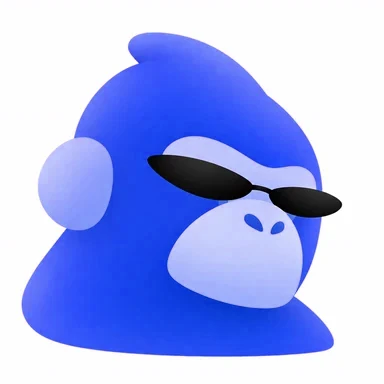
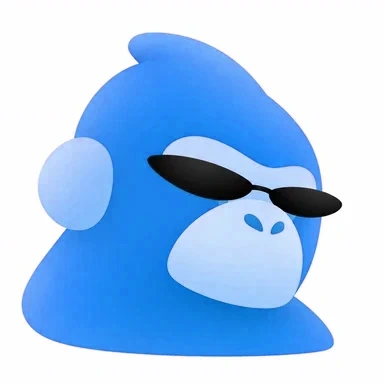
Иконка РОБОРАБ: фирменный синий #0A84FF вместо сине-фиолетового
Claude-Session: https://claude.ai/code/session_016PffSYv3aLKFEz8u7cQ8TG

diff --git a/dist/index.html b/dist/index.html
@@ -24,7 +24,7 @@
 <link rel="canonical" href="https://www.roborab.com/">
 <link rel="icon" type="image/png" sizes="96x96" href="/favicon.png">
 <link rel="apple-touch-icon" sizes="180x180" href="/apple-touch-icon.png">
-<link rel="stylesheet" href="/assets/site.css?v=3f15c3c2">
+<link rel="stylesheet" href="/assets/site.css?v=5facbef2">
 <script type="application/ld+json">{"@context": "https://schema.org", "@graph": [{"@type": "Organization", "@id": "https://www.roborab.com/#organization", "name": "РОБОРАБ", "alternateName": ["RoboRab", "РОБОРАБ AI"], "disambiguatingDescription": "Компания РОБОРАБ (RoboRab, roborab.com): консалтинг и внедрение ИИ для бизнеса и профессий, готовые решения и разработка под задачу.", "knowsAbout": ["внедрение искусственного интеллекта", "ИИ-агенты", "мультиагентные системы", "CRM", "интеграция с 1С", "SEO и GEO", "веб-разработка"], "url": "https://www.roborab.com/", "logo": "https://www.roborab.com/assets/appicon.webp", "description": "РОБОРАБ (RoboRab, roborab.com) занимается консалтингом и внедрением искусственного интеллекта для бизнеса и профессий. Сначала разбираем, где у вас теряются время и деньги, и честно говорим, поможет ли система. Если поможет, настраиваем готовое решение из каталога или разрабатываем инструмент с нуля: от удобной CRM до экосистемы с сайтом, интернет-магазином, веб-приложением и мультиагентной системой. В каталоге: Фитнес-CRM, Букинг-CRM, Строй-учёт, Налоговый агент для группы компаний, SEO и GEO, веб-разработка. Подключаем таблицы, базы данных, 1С, «Мой склад» и другие CRM-системы. Диагностика в чате бесплатна.", "contactPoint": {"@type": "ContactPoint", "url": "https://roborabaichat.vercel.app/?lang=ru", "contactType": "Консультация по внедрению", "availableLanguage": "ru"}}, {"@type": "WebSite", "@id": "https://www.roborab.com/#website", "name": "РОБОРАБ", "alternateName": "RoboRab", "url": "https://www.roborab.com/", "inLanguage": "ru", "publisher": {"@id": "https://www.roborab.com/#organization"}}, {"@type": ["WebPage", "FAQPage"], "@id": "https://www.roborab.com/#page", "url": "https://www.roborab.com/", "name": "РОБОРАБ (RoboRab): консалтинг и внедрение ИИ для бизнеса и профессий", "description": "РОБОРАБ (RoboRab): консалтинг и внедрение ИИ для бизнеса и профессий. Готовые решения: Фитнес-CRM, Букинг-CRM, Строй-учёт, Налоговый агент, SEO и GEO, веб-разработка. Бесплатная диагностика в чате.", "inLanguage": "ru", "isPartOf": {"@id": "https://www.roborab.com/#website"}, "about": [{"@id": "https://www.roborab.com/#organization"}, {"@id": "https://www.roborab.com/#service"}], "mainEntity": [{"@type": "Question", "name": "Что такое РОБОРАБ (RoboRab)?", "acceptedAnswer": {"@type": "Answer", "text": "РОБОРАБ (RoboRab, roborab.com) занимается консалтингом и внедрением искусственного интеллекта для бизнеса и профессий. Сначала разбираем, где у вас теряются время и деньги, и честно говорим, поможет ли система. Если поможет, настраиваем готовое решение из каталога или разрабатываем инструмент с нуля: от удобной CRM до экосистемы с сайтом, интернет-магазином, веб-приложением и мультиагентной системой. В каталоге: Фитнес-CRM, Букинг-CRM, Строй-учёт, Налоговый агент для группы компаний, SEO и GEO, веб-разработка. Подключаем таблицы, базы данных, 1С, «Мой склад» и другие CRM-системы. Диагностика в чате бесплатна."}}, {"@type": "Question", "name": "Как внедрить искусственный интеллект в бизнес-процессы?", "acceptedAnswer": {"@type": "Answer", "text": "Опишите задачу в чате. Специалист изучит резюме разговора и предложит настроить готовый продукт или разработать решение под ваш процесс. Срок зависит от задачи и подключаемых систем."}}, {"@type": "Question", "name": "Сколько стоит внедрение ИИ?", "acceptedAnswer": {"@type": "Answer", "text": "Диагностика в чате бесплатна. Стоимость внедрения зависит от объёма работ и систем, которые нужно подключить."}}, {"@type": "Question", "name": "С какими системами вы работаете?", "acceptedAnswer": {"@type": "Answer", "text": "С таблицами, базами данных, 1С, «Мой склад» и другими CRM-системами. Для юристов собираем мультиагентные системы, которые следят за изменениями в законах и просматривают дела."}}, {"@type": "Question", "name": "Где будет работать решение: у вас или в вашем приложении?", "acceptedAnswer": {"@type": "Answer", "text": "Как удобнее вам: оставим инфраструктуру в нашем приложении РОБОРАБ, где агентами можно управлять через чат, или развернём решение на вашем сервере."}}, {"@type": "Question", "name": "Сколько занимает внедрение?", "acceptedAnswer": {"@type": "Answer", "text": "Срок зависит от задачи и нужных интеграций. Точный срок назовём после диагностики."}}, {"@type": "Question", "name": "Что я получу после диагностики?", "acceptedAnswer": {"@type": "Answer", "text": "Список мест, где вы теряете деньги и время, и предложение специалиста: готовый продукт или решение с нуля."}}, {"@type": "Question", "name": "А если ИИ мне не нужен?", "acceptedAnswer": {"@type": "Answer", "text": "Скажем об этом прямо. Диагностика бесплатна, вы ничем не рискуете."}}, {"@type": "Question", "name": "Какие готовые решения есть в каталоге?", "acceptedAnswer": {"@type": "Answer", "text": "В каталоге доступны Букинг-CRM для посуточной аренды, Строй-учёт, налоговый агент для группы компаний, Фитнес-CRM и настройка SEO и GEO."}}, {"@type": "Question", "name": "Какие задачи можно передать ИИ-агенту?", "acceptedAnswer": {"@type": "Answer", "text": "Например, собирать заявки, готовить сводки по данным и отвечать на типовые вопросы. На диагностике разбираем, какие операции можно автоматизировать и где нужна проверка сотрудником."}}, {"@type": "Question", "name": "С чего начать, если я не знаю, что мне нужно?", "acceptedAnswer": {"@type": "Answer", "text": "Начните с диагностики: расскажите ИИ-агенту в чате о своём бизнесе. Он поможет найти, где процессы буксуют. Специалист изучит резюме и предложит, что внедрять."}}, {"@type": "Question", "name": "Можно ли заказать то, чего нет в каталоге?", "acceptedAnswer": {"@type": "Answer", "text": "Да. Мы настроим готовый продукт под вас, объединим несколько продуктов (решение «Гибрид») или соберём решение полностью под вас. Делаем и сайты."}}]}, {"@type": "Service", "@id": "https://www.roborab.com/#service", "name": "Внедрение ИИ в бизнес-процессы и профессии", "serviceType": "Внедрение ИИ-агентов", "url": "https://www.roborab.com/", "description": "РОБОРАБ (RoboRab, roborab.com) занимается консалтингом и внедрением искусственного интеллекта для бизнеса и профессий. Сначала разбираем, где у вас теряются время и деньги, и честно говорим, поможет ли система. Если поможет, настраиваем готовое решение из каталога или разрабатываем инструмент с нуля: от удобной CRM до экосистемы с сайтом, интернет-магазином, веб-приложением и мультиагентной системой. В каталоге: Фитнес-CRM, Букинг-CRM, Строй-учёт, Налоговый агент для группы компаний, SEO и GEO, веб-разработка. Подключаем таблицы, базы данных, 1С, «Мой склад» и другие CRM-системы. Диагностика в чате бесплатна.", "provider": {"@id": "https://www.roborab.com/#organization"}, "hasOfferCatalog": {"@type": "OfferCatalog", "name": "Готовые решения РОБОРАБ", "itemListElement": [{"@type": "Offer", "itemOffered": {"@type": "Service", "@id": "https://www.roborab.com/solutions/booking-crm#service", "name": "CRM для бронирований и публикации объявлений", "alternateName": "Букинг-CRM", "url": "https://www.roborab.com/solutions/booking-crm", "description": "Букинг-CRM РОБОРАБ: синхронизация бронирований, единый календарь и публикация объявлений на Авито, Суточно.ру, Островке и Яндекс Путешествиях.", "provider": {"@id": "https://www.roborab.com/#organization"}, "image": ["https://www.roborab.com/assets/booking-home.webp", "https://www.roborab.com/assets/booking-calendar.webp", "https://www.roborab.com/assets/booking-new.webp"]}}, {"@type": "Offer", "itemOffered": {"@type": "Service", "@id": "https://www.roborab.com/solutions/stroi-uchet#service", "name": "Учёт для строительных компаний", "alternateName": "Строй-учёт", "url": "https://www.roborab.com/solutions/stroi-uchet", "description": "Строй-учёт РОБОРАБ: смета по фото или проекту, контроль этапов работ с фотоотчётами бригады и камеры на объектах в одной карточке.", "provider": {"@id": "https://www.roborab.com/#organization"}, "image": ["https://www.roborab.com/assets/stroy-home.webp", "https://www.roborab.com/assets/stroy-estimate.webp", "https://www.roborab.com/assets/stroy-objects.webp"]}}, {"@type": "Offer", "itemOffered": {"@type": "Service", "@id": "https://www.roborab.com/solutions/nalogovy-agent#service", "name": "Налоговый агент для группы компаний", "alternateName": "Налоговый агент", "url": "https://www.roborab.com/solutions/nalogovy-agent", "description": "Налоговый агент РОБОРАБ собирает данные из 1С, показывает сроки платежей и помогает сравнивать прогнозы налоговой нагрузки по юрлицам.", "provider": {"@id": "https://www.roborab.com/#organization"}, "image": ["https://www.roborab.com/assets/tax-overview.webp", "https://www.roborab.com/assets/tax-revenue.webp", "https://www.roborab.com/assets/tax-forecast.webp"]}}, {"@type": "Offer", "itemOffered": {"@type": "Service", "@id": "https://www.roborab.com/solutions/fitness-crm#service", "name": "CRM для фитнес-клубов", "alternateName": "Фитнес-CRM", "url": "https://www.roborab.com/solutions/fitness-crm", "description": "Фитнес-CRM РОБОРАБ для учёта клиентов, абонементов, расписания и выплат тренерам.", "provider": {"@id": "https://www.roborab.com/#organization"}, "image": ["https://www.roborab.com/assets/fitness-dashboard.webp", "https://www.roborab.com/assets/fitness-schedule.webp", "https://www.roborab.com/assets/fitness-client.webp"]}}, {"@type": "Offer", "itemOffered": {"@type": "Service", "@id": "https://www.roborab.com/solutions/seo-geo#service", "name": "SEO / GEO", "alternateName": "SEO / GEO", "url": "https://www.roborab.com/solutions/seo-geo", "description": "РОБОРАБ настраивает сайты для поиска и ИИ-ответов, подключает аналитику и даёт бизнесу панель управления витриной.", "provider": {"@id": "https://www.roborab.com/#organization"}, "image": ["https://www.roborab.com/assets/seo-overview.webp", "https://www.roborab.com/assets/seo-ai-traffic.webp", "https://www.roborab.com/assets/seo-sources.webp"]}}, {"@type": "Offer", "itemOffered": {"@type": "Service", "@id": "https://www.roborab.com/solutions/web-razrabotka#service", "name": "Веб-разработка: сайты, интернет-магазины и приложения для сервиса", "alternateName": "Веб-разработка", "url": "https://www.roborab.com/solutions/web-razrabotka", "description": "РОБОРАБ разрабатывает сайты, интернет-магазины с заказом и оплатой, личные кабинеты и веб-приложения, которые делают сервис вашего бизнеса удобнее для клиентов.", "provider": {"@id": "https://www.roborab.com/#organization"}, "image": []}}]}}]}</script>
 <script src="/assets/site.js?v=fa3b9db9" defer></script>
 </head>

diff --git a/dist/solutions/web-razrabotka.html b/dist/solutions/web-razrabotka.html
@@ -24,7 +24,7 @@
 <link rel="canonical" href="https://www.roborab.com/solutions/web-razrabotka">
 <link rel="icon" type="image/png" sizes="96x96" href="/favicon.png">
 <link rel="apple-touch-icon" sizes="180x180" href="/apple-touch-icon.png">
-<link rel="stylesheet" href="/assets/site.css?v=3f15c3c2">
+<link rel="stylesheet" href="/assets/site.css?v=5facbef2">
 <script type="application/ld+json">{"@context": "https://schema.org", "@graph": [{"@type": "Organization", "@id": "https://www.roborab.com/#organization", "name": "РОБОРАБ", "alternateName": ["RoboRab", "РОБОРАБ AI"], "disambiguatingDescription": "Компания РОБОРАБ (RoboRab, roborab.com): консалтинг и внедрение ИИ для бизнеса и профессий, готовые решения и разработка под задачу.", "knowsAbout": ["внедрение искусственного интеллекта", "ИИ-агенты", "мультиагентные системы", "CRM", "интеграция с 1С", "SEO и GEO", "веб-разработка"], "url": "https://www.roborab.com/", "logo": "https://www.roborab.com/assets/appicon.webp", "description": "РОБОРАБ (RoboRab, roborab.com) занимается консалтингом и внедрением искусственного интеллекта для бизнеса и профессий. Сначала разбираем, где у вас теряются время и деньги, и честно говорим, поможет ли система. Если поможет, настраиваем готовое решение из каталога или разрабатываем инструмент с нуля: от удобной CRM до экосистемы с сайтом, интернет-магазином, веб-приложением и мультиагентной системой. В каталоге: Фитнес-CRM, Букинг-CRM, Строй-учёт, Налоговый агент для группы компаний, SEO и GEO, веб-разработка. Подключаем таблицы, базы данных, 1С, «Мой склад» и другие CRM-системы. Диагностика в чате бесплатна.", "contactPoint": {"@type": "ContactPoint", "url": "https://roborabaichat.vercel.app/?lang=ru", "contactType": "Консультация по внедрению", "availableLanguage": "ru"}}, {"@type": "WebSite", "@id": "https://www.roborab.com/#website", "name": "РОБОРАБ", "alternateName": "RoboRab", "url": "https://www.roborab.com/", "inLanguage": "ru", "publisher": {"@id": "https://www.roborab.com/#organization"}}, {"@type": "BreadcrumbList", "@id": "https://www.roborab.com/solutions/web-razrabotka#breadcrumbs", "itemListElement": [{"@type": "ListItem", "position": 1, "name": "РОБОРАБ", "item": "https://www.roborab.com/"}, {"@type": "ListItem", "position": 2, "name": "Веб-разработка: сайты, интернет-магазины и приложения для сервиса", "item": "https://www.roborab.com/solutions/web-razrabotka"}]}, {"@type": "WebPage", "@id": "https://www.roborab.com/solutions/web-razrabotka#page", "url": "https://www.roborab.com/solutions/web-razrabotka", "name": "Веб-разработка: сайты, интернет-магазины и приложения для сервиса — РОБОРАБ (RoboRab)", "description": "РОБОРАБ разрабатывает сайты, интернет-магазины с заказом и оплатой, личные кабинеты и веб-приложения, которые делают сервис вашего бизнеса удобнее для клиентов.", "inLanguage": "ru", "isPartOf": {"@id": "https://www.roborab.com/#website"}, "about": {"@id": "https://www.roborab.com/solutions/web-razrabotka#service"}, "mainEntity": {"@id": "https://www.roborab.com/solutions/web-razrabotka#service"}, "breadcrumb": {"@id": "https://www.roborab.com/solutions/web-razrabotka#breadcrumbs"}}, {"@type": "Service", "@id": "https://www.roborab.com/solutions/web-razrabotka#service", "name": "Веб-разработка: сайты, интернет-магазины и приложения для сервиса", "alternateName": "Веб-разработка", "url": "https://www.roborab.com/solutions/web-razrabotka", "description": "РОБОРАБ разрабатывает сайты, интернет-магазины с заказом и оплатой, личные кабинеты и веб-приложения, которые делают сервис вашего бизнеса удобнее для клиентов.", "provider": {"@id": "https://www.roborab.com/#organization"}, "image": []}]}</script>
 </head>
 <body>

diff --git a/dist/solutions/booking-crm.html b/dist/solutions/booking-crm.html
@@ -24,7 +24,7 @@
 <link rel="canonical" href="https://www.roborab.com/solutions/booking-crm">
 <link rel="icon" type="image/png" sizes="96x96" href="/favicon.png">
 <link rel="apple-touch-icon" sizes="180x180" href="/apple-touch-icon.png">
-<link rel="stylesheet" href="/assets/site.css?v=3f15c3c2">
+<link rel="stylesheet" href="/assets/site.css?v=5facbef2">
 <script type="application/ld+json">{"@context": "https://schema.org", "@graph": [{"@type": "Organization", "@id": "https://www.roborab.com/#organization", "name": "РОБОРАБ", "alternateName": ["RoboRab", "РОБОРАБ AI"], "disambiguatingDescription": "Компания РОБОРАБ (RoboRab, roborab.com): консалтинг и внедрение ИИ для бизнеса и профессий, готовые решения и разработка под задачу.", "knowsAbout": ["внедрение искусственного интеллекта", "ИИ-агенты", "мультиагентные системы", "CRM", "интеграция с 1С", "SEO и GEO", "веб-разработка"], "url": "https://www.roborab.com/", "logo": "https://www.roborab.com/assets/appicon.webp", "description": "РОБОРАБ (RoboRab, roborab.com) занимается консалтингом и внедрением искусственного интеллекта для бизнеса и профессий. Сначала разбираем, где у вас теряются время и деньги, и честно говорим, поможет ли система. Если поможет, настраиваем готовое решение из каталога или разрабатываем инструмент с нуля: от удобной CRM до экосистемы с сайтом, интернет-магазином, веб-приложением и мультиагентной системой. В каталоге: Фитнес-CRM, Букинг-CRM, Строй-учёт, Налоговый агент для группы компаний, SEO и GEO, веб-разработка. Подключаем таблицы, базы данных, 1С, «Мой склад» и другие CRM-системы. Диагностика в чате бесплатна.", "contactPoint": {"@type": "ContactPoint", "url": "https://roborabaichat.vercel.app/?lang=ru", "contactType": "Консультация по внедрению", "availableLanguage": "ru"}}, {"@type": "WebSite", "@id": "https://www.roborab.com/#website", "name": "РОБОРАБ", "alternateName": "RoboRab", "url": "https://www.roborab.com/", "inLanguage": "ru", "publisher": {"@id": "https://www.roborab.com/#organization"}}, {"@type": "BreadcrumbList", "@id": "https://www.roborab.com/solutions/booking-crm#breadcrumbs", "itemListElement": [{"@type": "ListItem", "position": 1, "name": "РОБОРАБ", "item": "https://www.roborab.com/"}, {"@type": "ListItem", "position": 2, "name": "CRM для бронирований и публикации объявлений", "item": "https://www.roborab.com/solutions/booking-crm"}]}, {"@type": "WebPage", "@id": "https://www.roborab.com/solutions/booking-crm#page", "url": "https://www.roborab.com/solutions/booking-crm", "name": "CRM для бронирований и публикации объявлений — РОБОРАБ (RoboRab)", "description": "Букинг-CRM РОБОРАБ: синхронизация бронирований, единый календарь и публикация объявлений на Авито, Суточно.ру, Островке и Яндекс Путешествиях.", "inLanguage": "ru", "isPartOf": {"@id": "https://www.roborab.com/#website"}, "about": {"@id": "https://www.roborab.com/solutions/booking-crm#service"}, "mainEntity": {"@id": "https://www.roborab.com/solutions/booking-crm#service"}, "breadcrumb": {"@id": "https://www.roborab.com/solutions/booking-crm#breadcrumbs"}}, {"@type": "Service", "@id": "https://www.roborab.com/solutions/booking-crm#service", "name": "CRM для бронирований и публикации объявлений", "alternateName": "Букинг-CRM", "url": "https://www.roborab.com/solutions/booking-crm", "description": "Букинг-CRM РОБОРАБ: синхронизация бронирований, единый календарь и публикация объявлений на Авито, Суточно.ру, Островке и Яндекс Путешествиях.", "provider": {"@id": "https://www.roborab.com/#organization"}, "image": ["https://www.roborab.com/assets/booking-home.webp", "https://www.roborab.com/assets/booking-calendar.webp", "https://www.roborab.com/assets/booking-new.webp"]}]}</script>
 </head>
 <body>

diff --git a/dist/solutions/nalogovy-agent.html b/dist/solutions/nalogovy-agent.html
@@ -24,7 +24,7 @@
 <link rel="canonical" href="https://www.roborab.com/solutions/nalogovy-agent">
 <link rel="icon" type="image/png" sizes="96x96" href="/favicon.png">
 <link rel="apple-touch-icon" sizes="180x180" href="/apple-touch-icon.png">
-<link rel="stylesheet" href="/assets/site.css?v=3f15c3c2">
+<link rel="stylesheet" href="/assets/site.css?v=5facbef2">
 <script type="application/ld+json">{"@context": "https://schema.org", "@graph": [{"@type": "Organization", "@id": "https://www.roborab.com/#organization", "name": "РОБОРАБ", "alternateName": ["RoboRab", "РОБОРАБ AI"], "disambiguatingDescription": "Компания РОБОРАБ (RoboRab, roborab.com): консалтинг и внедрение ИИ для бизнеса и профессий, готовые решения и разработка под задачу.", "knowsAbout": ["внедрение искусственного интеллекта", "ИИ-агенты", "мультиагентные системы", "CRM", "интеграция с 1С", "SEO и GEO", "веб-разработка"], "url": "https://www.roborab.com/", "logo": "https://www.roborab.com/assets/appicon.webp", "description": "РОБОРАБ (RoboRab, roborab.com) занимается консалтингом и внедрением искусственного интеллекта для бизнеса и профессий. Сначала разбираем, где у вас теряются время и деньги, и честно говорим, поможет ли система. Если поможет, настраиваем готовое решение из каталога или разрабатываем инструмент с нуля: от удобной CRM до экосистемы с сайтом, интернет-магазином, веб-приложением и мультиагентной системой. В каталоге: Фитнес-CRM, Букинг-CRM, Строй-учёт, Налоговый агент для группы компаний, SEO и GEO, веб-разработка. Подключаем таблицы, базы данных, 1С, «Мой склад» и другие CRM-системы. Диагностика в чате бесплатна.", "contactPoint": {"@type": "ContactPoint", "url": "https://roborabaichat.vercel.app/?lang=ru", "contactType": "Консультация по внедрению", "availableLanguage": "ru"}}, {"@type": "WebSite", "@id": "https://www.roborab.com/#website", "name": "РОБОРАБ", "alternateName": "RoboRab", "url": "https://www.roborab.com/", "inLanguage": "ru", "publisher": {"@id": "https://www.roborab.com/#organization"}}, {"@type": "BreadcrumbList", "@id": "https://www.roborab.com/solutions/nalogovy-agent#breadcrumbs", "itemListElement": [{"@type": "ListItem", "position": 1, "name": "РОБОРАБ", "item": "https://www.roborab.com/"}, {"@type": "ListItem", "position": 2, "name": "Налоговый агент для группы компаний", "item": "https://www.roborab.com/solutions/nalogovy-agent"}]}, {"@type": "WebPage", "@id": "https://www.roborab.com/solutions/nalogovy-agent#page", "url": "https://www.roborab.com/solutions/nalogovy-agent", "name": "Налоговый агент для группы компаний — РОБОРАБ (RoboRab)", "description": "Налоговый агент РОБОРАБ собирает данные из 1С, показывает сроки платежей и помогает сравнивать прогнозы налоговой нагрузки по юрлицам.", "inLanguage": "ru", "isPartOf": {"@id": "https://www.roborab.com/#website"}, "about": {"@id": "https://www.roborab.com/solutions/nalogovy-agent#service"}, "mainEntity": {"@id": "https://www.roborab.com/solutions/nalogovy-agent#service"}, "breadcrumb": {"@id": "https://www.roborab.com/solutions/nalogovy-agent#breadcrumbs"}}, {"@type": "Service", "@id": "https://www.roborab.com/solutions/nalogovy-agent#service", "name": "Налоговый агент для группы компаний", "alternateName": "Налоговый агент", "url": "https://www.roborab.com/solutions/nalogovy-agent", "description": "Налоговый агент РОБОРАБ собирает данные из 1С, показывает сроки платежей и помогает сравнивать прогнозы налоговой нагрузки по юрлицам.", "provider": {"@id": "https://www.roborab.com/#organization"}, "image": ["https://www.roborab.com/assets/tax-overview.webp", "https://www.roborab.com/assets/tax-revenue.webp", "https://www.roborab.com/assets/tax-forecast.webp"]}]}</script>
 </head>
 <body>

diff --git a/dist/solutions/stroi-uchet.html b/dist/solutions/stroi-uchet.html
@@ -24,7 +24,7 @@
 <link rel="canonical" href="https://www.roborab.com/solutions/stroi-uchet">
 <link rel="icon" type="image/png" sizes="96x96" href="/favicon.png">
 <link rel="apple-touch-icon" sizes="180x180" href="/apple-touch-icon.png">
-<link rel="stylesheet" href="/assets/site.css?v=3f15c3c2">
+<link rel="stylesheet" href="/assets/site.css?v=5facbef2">
 <script type="application/ld+json">{"@context": "https://schema.org", "@graph": [{"@type": "Organization", "@id": "https://www.roborab.com/#organization", "name": "РОБОРАБ", "alternateName": ["RoboRab", "РОБОРАБ AI"], "disambiguatingDescription": "Компания РОБОРАБ (RoboRab, roborab.com): консалтинг и внедрение ИИ для бизнеса и профессий, готовые решения и разработка под задачу.", "knowsAbout": ["внедрение искусственного интеллекта", "ИИ-агенты", "мультиагентные системы", "CRM", "интеграция с 1С", "SEO и GEO", "веб-разработка"], "url": "https://www.roborab.com/", "logo": "https://www.roborab.com/assets/appicon.webp", "description": "РОБОРАБ (RoboRab, roborab.com) занимается консалтингом и внедрением искусственного интеллекта для бизнеса и профессий. Сначала разбираем, где у вас теряются время и деньги, и честно говорим, поможет ли система. Если поможет, настраиваем готовое решение из каталога или разрабатываем инструмент с нуля: от удобной CRM до экосистемы с сайтом, интернет-магазином, веб-приложением и мультиагентной системой. В каталоге: Фитнес-CRM, Букинг-CRM, Строй-учёт, Налоговый агент для группы компаний, SEO и GEO, веб-разработка. Подключаем таблицы, базы данных, 1С, «Мой склад» и другие CRM-системы. Диагностика в чате бесплатна.", "contactPoint": {"@type": "ContactPoint", "url": "https://roborabaichat.vercel.app/?lang=ru", "contactType": "Консультация по внедрению", "availableLanguage": "ru"}}, {"@type": "WebSite", "@id": "https://www.roborab.com/#website", "name": "РОБОРАБ", "alternateName": "RoboRab", "url": "https://www.roborab.com/", "inLanguage": "ru", "publisher": {"@id": "https://www.roborab.com/#organization"}}, {"@type": "BreadcrumbList", "@id": "https://www.roborab.com/solutions/stroi-uchet#breadcrumbs", "itemListElement": [{"@type": "ListItem", "position": 1, "name": "РОБОРАБ", "item": "https://www.roborab.com/"}, {"@type": "ListItem", "position": 2, "name": "Учёт для строительных компаний", "item": "https://www.roborab.com/solutions/stroi-uchet"}]}, {"@type": "WebPage", "@id": "https://www.roborab.com/solutions/stroi-uchet#page", "url": "https://www.roborab.com/solutions/stroi-uchet", "name": "Учёт для строительных компаний — РОБОРАБ (RoboRab)", "description": "Строй-учёт РОБОРАБ: смета по фото или проекту, контроль этапов работ с фотоотчётами бригады и камеры на объектах в одной карточке.", "inLanguage": "ru", "isPartOf": {"@id": "https://www.roborab.com/#website"}, "about": {"@id": "https://www.roborab.com/solutions/stroi-uchet#service"}, "mainEntity": {"@id": "https://www.roborab.com/solutions/stroi-uchet#service"}, "breadcrumb": {"@id": "https://www.roborab.com/solutions/stroi-uchet#breadcrumbs"}}, {"@type": "Service", "@id": "https://www.roborab.com/solutions/stroi-uchet#service", "name": "Учёт для строительных компаний", "alternateName": "Строй-учёт", "url": "https://www.roborab.com/solutions/stroi-uchet", "description": "Строй-учёт РОБОРАБ: смета по фото или проекту, контроль этапов работ с фотоотчётами бригады и камеры на объектах в одной карточке.", "provider": {"@id": "https://www.roborab.com/#organization"}, "image": ["https://www.roborab.com/assets/stroy-home.webp", "https://www.roborab.com/assets/stroy-estimate.webp", "https://www.roborab.com/assets/stroy-objects.webp"]}]}</script>
 </head>
 <body>

diff --git a/dist/solutions/fitness-crm.html b/dist/solutions/fitness-crm.html
@@ -24,7 +24,7 @@
 <link rel="canonical" href="https://www.roborab.com/solutions/fitness-crm">
 <link rel="icon" type="image/png" sizes="96x96" href="/favicon.png">
 <link rel="apple-touch-icon" sizes="180x180" href="/apple-touch-icon.png">
-<link rel="stylesheet" href="/assets/site.css?v=3f15c3c2">
+<link rel="stylesheet" href="/assets/site.css?v=5facbef2">
 <script type="application/ld+json">{"@context": "https://schema.org", "@graph": [{"@type": "Organization", "@id": "https://www.roborab.com/#organization", "name": "РОБОРАБ", "alternateName": ["RoboRab", "РОБОРАБ AI"], "disambiguatingDescription": "Компания РОБОРАБ (RoboRab, roborab.com): консалтинг и внедрение ИИ для бизнеса и профессий, готовые решения и разработка под задачу.", "knowsAbout": ["внедрение искусственного интеллекта", "ИИ-агенты", "мультиагентные системы", "CRM", "интеграция с 1С", "SEO и GEO", "веб-разработка"], "url": "https://www.roborab.com/", "logo": "https://www.roborab.com/assets/appicon.webp", "description": "РОБОРАБ (RoboRab, roborab.com) занимается консалтингом и внедрением искусственного интеллекта для бизнеса и профессий. Сначала разбираем, где у вас теряются время и деньги, и честно говорим, поможет ли система. Если поможет, настраиваем готовое решение из каталога или разрабатываем инструмент с нуля: от удобной CRM до экосистемы с сайтом, интернет-магазином, веб-приложением и мультиагентной системой. В каталоге: Фитнес-CRM, Букинг-CRM, Строй-учёт, Налоговый агент для группы компаний, SEO и GEO, веб-разработка. Подключаем таблицы, базы данных, 1С, «Мой склад» и другие CRM-системы. Диагностика в чате бесплатна.", "contactPoint": {"@type": "ContactPoint", "url": "https://roborabaichat.vercel.app/?lang=ru", "contactType": "Консультация по внедрению", "availableLanguage": "ru"}}, {"@type": "WebSite", "@id": "https://www.roborab.com/#website", "name": "РОБОРАБ", "alternateName": "RoboRab", "url": "https://www.roborab.com/", "inLanguage": "ru", "publisher": {"@id": "https://www.roborab.com/#organization"}}, {"@type": "BreadcrumbList", "@id": "https://www.roborab.com/solutions/fitness-crm#breadcrumbs", "itemListElement": [{"@type": "ListItem", "position": 1, "name": "РОБОРАБ", "item": "https://www.roborab.com/"}, {"@type": "ListItem", "position": 2, "name": "CRM для фитнес-клубов", "item": "https://www.roborab.com/solutions/fitness-crm"}]}, {"@type": "WebPage", "@id": "https://www.roborab.com/solutions/fitness-crm#page", "url": "https://www.roborab.com/solutions/fitness-crm", "name": "CRM для фитнес-клубов — РОБОРАБ (RoboRab)", "description": "Фитнес-CRM РОБОРАБ для учёта клиентов, абонементов, расписания и выплат тренерам.", "inLanguage": "ru", "isPartOf": {"@id": "https://www.roborab.com/#website"}, "about": {"@id": "https://www.roborab.com/solutions/fitness-crm#service"}, "mainEntity": {"@id": "https://www.roborab.com/solutions/fitness-crm#service"}, "breadcrumb": {"@id": "https://www.roborab.com/solutions/fitness-crm#breadcrumbs"}}, {"@type": "Service", "@id": "https://www.roborab.com/solutions/fitness-crm#service", "name": "CRM для фитнес-клубов", "alternateName": "Фитнес-CRM", "url": "https://www.roborab.com/solutions/fitness-crm", "description": "Фитнес-CRM РОБОРАБ для учёта клиентов, абонементов, расписания и выплат тренерам.", "provider": {"@id": "https://www.roborab.com/#organization"}, "image": ["https://www.roborab.com/assets/fitness-dashboard.webp", "https://www.roborab.com/assets/fitness-schedule.webp", "https://www.roborab.com/assets/fitness-client.webp"]}]}</script>
 </head>
 <body>

diff --git a/dist/solutions/seo-geo.html b/dist/solutions/seo-geo.html
@@ -24,7 +24,7 @@
 <link rel="canonical" href="https://www.roborab.com/solutions/seo-geo">
 <link rel="icon" type="image/png" sizes="96x96" href="/favicon.png">
 <link rel="apple-touch-icon" sizes="180x180" href="/apple-touch-icon.png">
-<link rel="stylesheet" href="/assets/site.css?v=3f15c3c2">
+<link rel="stylesheet" href="/assets/site.css?v=5facbef2">
 <script type="application/ld+json">{"@context": "https://schema.org", "@graph": [{"@type": "Organization", "@id": "https://www.roborab.com/#organization", "name": "РОБОРАБ", "alternateName": ["RoboRab", "РОБОРАБ AI"], "disambiguatingDescription": "Компания РОБОРАБ (RoboRab, roborab.com): консалтинг и внедрение ИИ для бизнеса и профессий, готовые решения и разработка под задачу.", "knowsAbout": ["внедрение искусственного интеллекта", "ИИ-агенты", "мультиагентные системы", "CRM", "интеграция с 1С", "SEO и GEO", "веб-разработка"], "url": "https://www.roborab.com/", "logo": "https://www.roborab.com/assets/appicon.webp", "description": "РОБОРАБ (RoboRab, roborab.com) занимается консалтингом и внедрением искусственного интеллекта для бизнеса и профессий. Сначала разбираем, где у вас теряются время и деньги, и честно говорим, поможет ли система. Если поможет, настраиваем готовое решение из каталога или разрабатываем инструмент с нуля: от удобной CRM до экосистемы с сайтом, интернет-магазином, веб-приложением и мультиагентной системой. В каталоге: Фитнес-CRM, Букинг-CRM, Строй-учёт, Налоговый агент для группы компаний, SEO и GEO, веб-разработка. Подключаем таблицы, базы данных, 1С, «Мой склад» и другие CRM-системы. Диагностика в чате бесплатна.", "contactPoint": {"@type": "ContactPoint", "url": "https://roborabaichat.vercel.app/?lang=ru", "contactType": "Консультация по внедрению", "availableLanguage": "ru"}}, {"@type": "WebSite", "@id": "https://www.roborab.com/#website", "name": "РОБОРАБ", "alternateName": "RoboRab", "url": "https://www.roborab.com/", "inLanguage": "ru", "publisher": {"@id": "https://www.roborab.com/#organization"}}, {"@type": "BreadcrumbList", "@id": "https://www.roborab.com/solutions/seo-geo#breadcrumbs", "itemListElement": [{"@type": "ListItem", "position": 1, "name": "РОБОРАБ", "item": "https://www.roborab.com/"}, {"@type": "ListItem", "position": 2, "name": "SEO / GEO", "item": "https://www.roborab.com/solutions/seo-geo"}]}, {"@type": "WebPage", "@id": "https://www.roborab.com/solutions/seo-geo#page", "url": "https://www.roborab.com/solutions/seo-geo", "name": "SEO / GEO — РОБОРАБ (RoboRab)", "description": "РОБОРАБ настраивает сайты для поиска и ИИ-ответов, подключает аналитику и даёт бизнесу панель управления витриной.", "inLanguage": "ru", "isPartOf": {"@id": "https://www.roborab.com/#website"}, "about": {"@id": "https://www.roborab.com/solutions/seo-geo#service"}, "mainEntity": {"@id": "https://www.roborab.com/solutions/seo-geo#service"}, "breadcrumb": {"@id": "https://www.roborab.com/solutions/seo-geo#breadcrumbs"}}, {"@type": "Service", "@id": "https://www.roborab.com/solutions/seo-geo#service", "name": "SEO / GEO", "alternateName": "SEO / GEO", "url": "https://www.roborab.com/solutions/seo-geo", "description": "РОБОРАБ настраивает сайты для поиска и ИИ-ответов, подключает аналитику и даёт бизнесу панель управления витриной.", "provider": {"@id": "https://www.roborab.com/#organization"}, "image": ["https://www.roborab.com/assets/seo-overview.webp", "https://www.roborab.com/assets/seo-ai-traffic.webp", "https://www.roborab.com/assets/seo-sources.webp"]}]}</script>
 </head>
 <body>

diff --git a/dist/assets/site.css b/dist/assets/site.css
@@ -5,7 +5,7 @@
   --f:'Manrope',system-ui,-apple-system,'Segoe UI',Roboto,Arial,sans-serif;
   --fit:#5f7d1f;--tax:#0f7f8d;--build:#d4540a;--booking:#141414;--seo:#d62f60;
   --fg:#111514;--f-body:var(--f);--f-display:var(--f);--f-mono:var(--f);--c:min(100% - 32px,1280px);interpolate-size:allow-keywords;color-scheme:light;
-  --img-appicon:url(/assets/appicon.webp?v=f6a1c4b4);
+  --img-appicon:url(/assets/appicon.webp?v=b57b9d04);
   --img-booking-calendar:url(/assets/booking-calendar.webp?v=38455a90);
   --img-booking-home:url(/assets/booking-home.webp?v=b902ace6);
   --img-booking-money:url(/assets/booking-money.webp?v=9e3e83dc);
